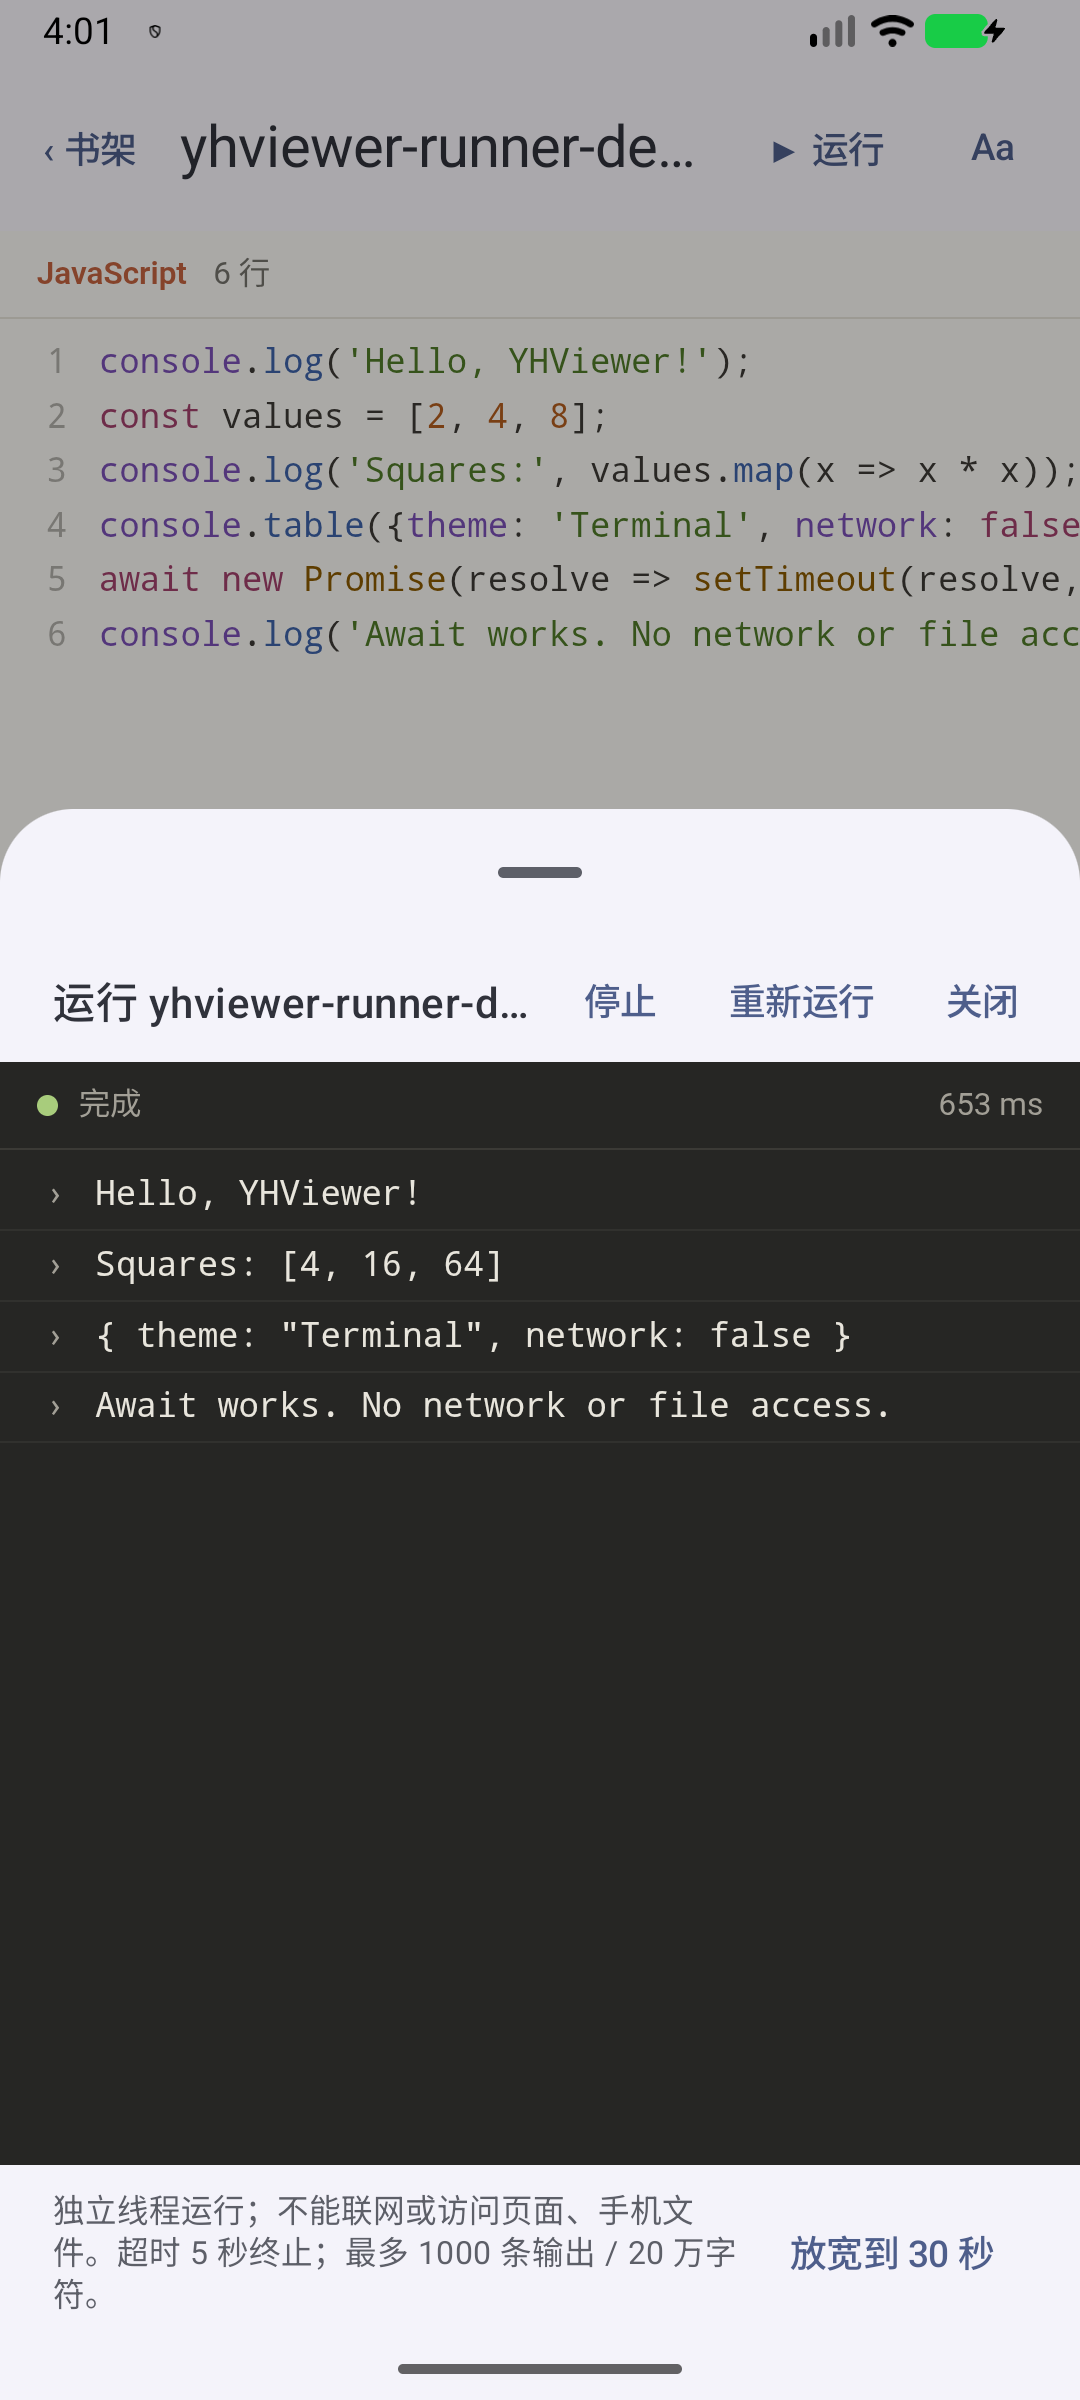
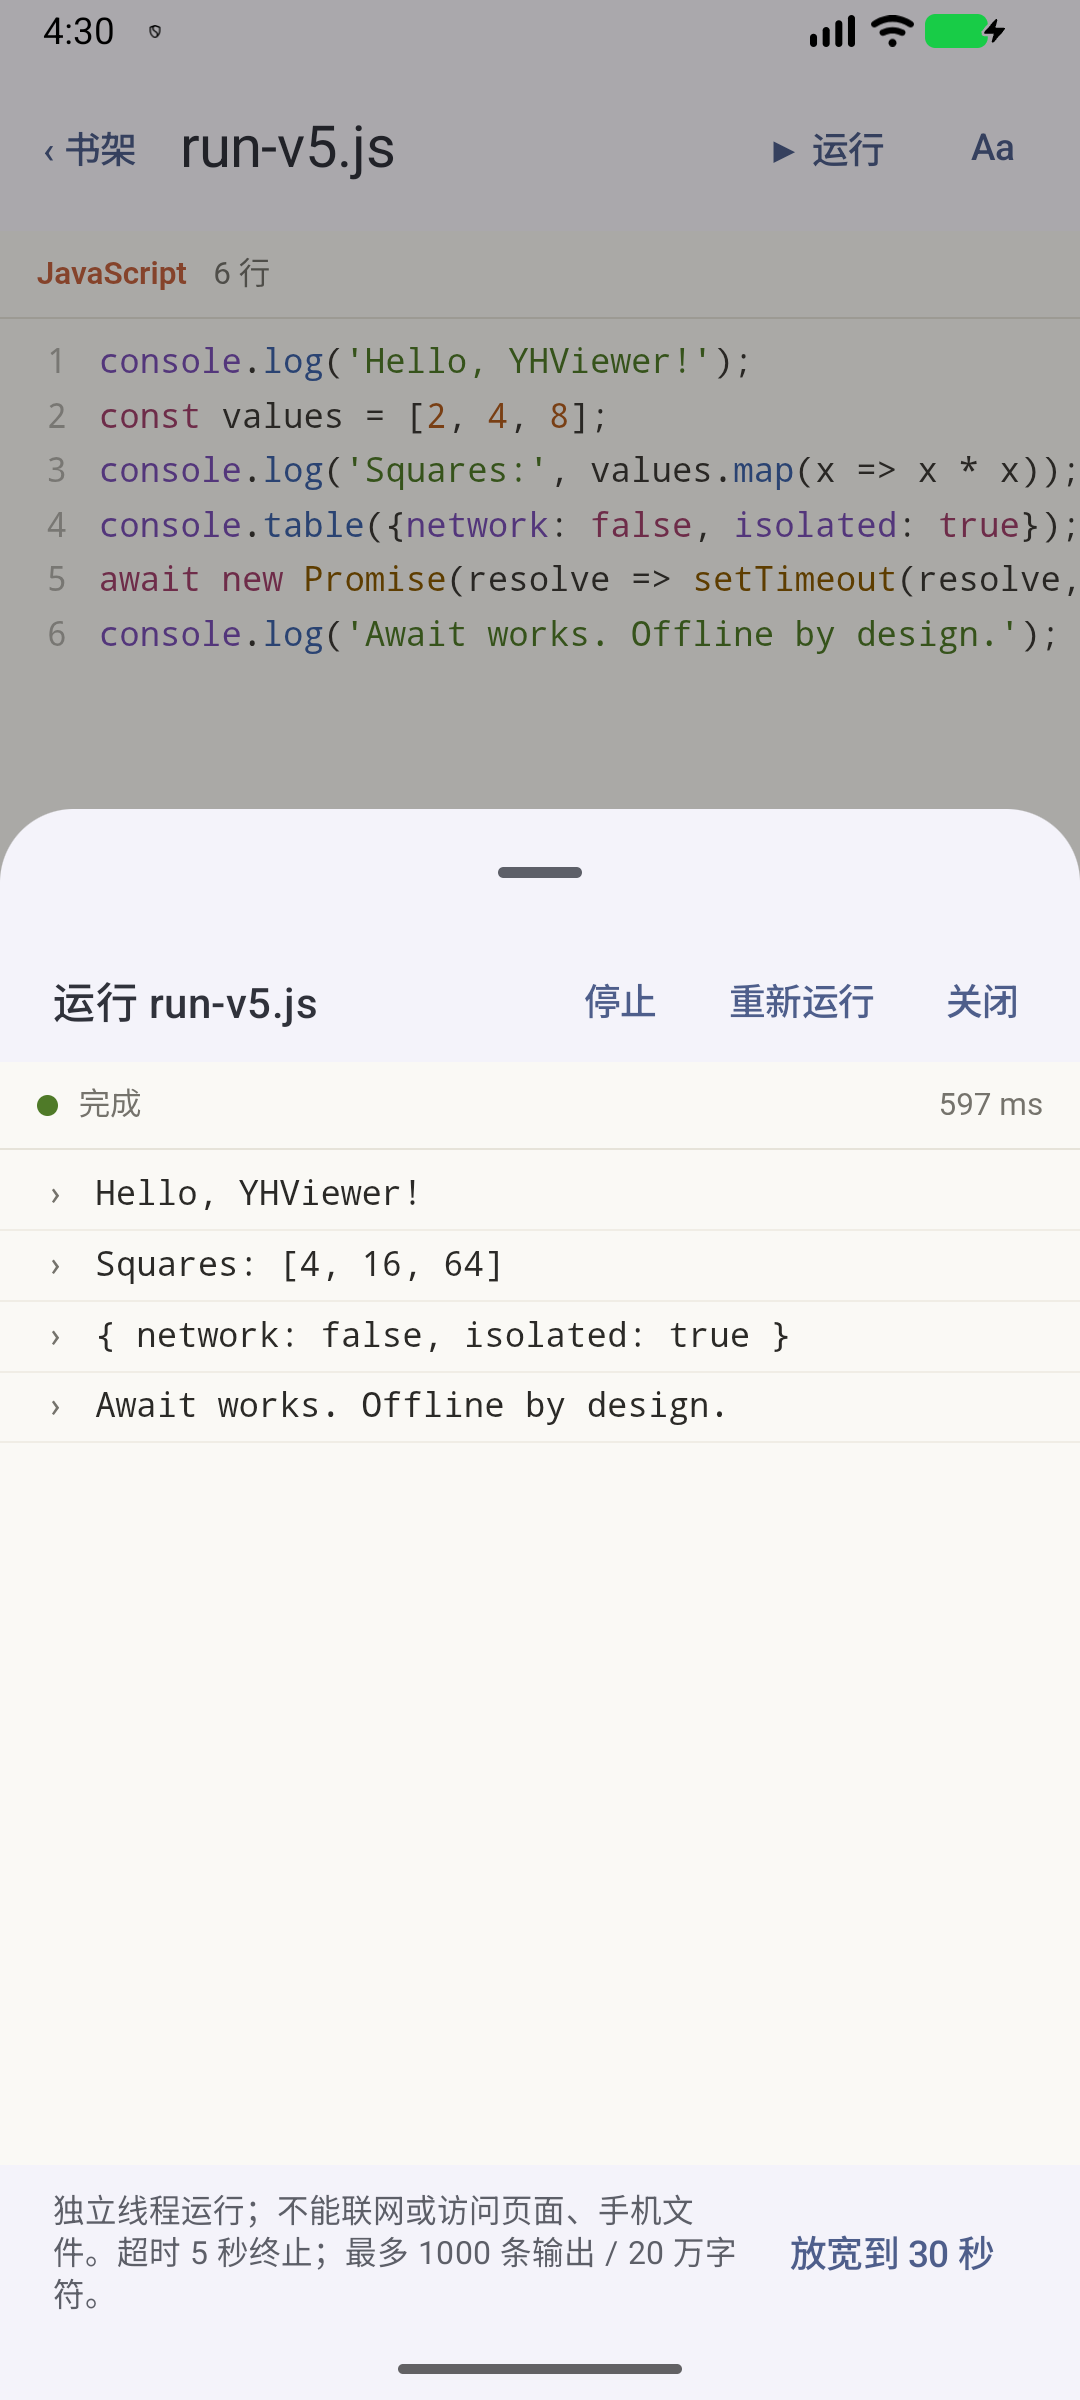
docs: record final runner device acceptance and update screenshot

diff --git a/docs/verification/JS_RUNNER.md b/docs/verification/JS_RUNNER.md
@@ -14,15 +14,15 @@ The v5 runner is separate from the document reader. All fixtures were generated 
 
 Both editions: **127 JVM tests**, zero failures/errors/skips; debug Lint, debug APK, optimized R8 release APK and instrumentation compilation passed. Final release APK inspection confirms Strict has no INTERNET permission and Standard has INTERNET.
 
-The dedicated API 37 emulator passed all 6 runner engine tests and all 3 runner UI tests. Checks cover awaited/delayed console output, circular objects/Map/Set, source escaping, syntax/runtime/rejection errors, Unicode, infinite-loop timeout, normal/forged/clear/character floods, real CSP denial of fetch/importScripts/WebSocket/XHR/file/content, fresh IndexedDB/CacheStorage, live themes, stop/restart/close, document replacement, chrome://crash and an allocation bomb without app-process death. The full API 37 suite passed **Strict 64/64** and **Standard 66/66**, with no failures or skipped tests. Both optimized R8 APKs, signed with the public development certificate only for this disposable emulator check, also rendered the native shelf and kept the app process alive.
+The dedicated API 37 emulator passed all 6 runner engine tests and all 4 runner UI tests. Checks cover awaited/delayed console output, circular objects/Map/Set, source escaping, syntax/runtime/rejection errors, Unicode, infinite-loop timeout, normal/forged/clear/character floods, real CSP denial of fetch/importScripts/WebSocket/XHR/file/content, fresh IndexedDB/CacheStorage, live themes, stop/restart/close, document replacement, chrome://crash and an allocation bomb without app-process death. The full API 37 suite passed **Strict 65/65** and **Standard 67/67**, with no failures or skipped tests. Both optimized R8 APKs, signed with the local development certificate only for this disposable emulator check, also rendered the native shelf and kept the app process alive.
 
 An independent broad source review found no P0/P1/P2 blocking issue. No formal v0.3.0 tag or release was created.
 
 ## Physical API 35 device
 
-On the connected Xiaomi/Redmi 23049RAD8C, WebView 153.0.8010.39, an independent **io.github.zer0rin.yhviewer.qa** debug application ran the 6 engine, 3 UI and 3 recovery checks: **Standard 12/12, Strict 12/12**, no failures/skips. The allocation-bomb assertion accepts controlled Worker failure/timeout or a recovered renderer crash; the separate chrome://crash assertion explicitly verifies the native crash message and rerun path. These results do not claim that every allocation attempt triggers an OS renderer kill.
+On the connected Xiaomi/Redmi 23049RAD8C, WebView 153.0.8010.39, an independent **io.github.zer0rin.yhviewer.qa** debug application ran the 6 engine, 4 UI and 3 recovery checks: **Standard 13/13, Strict 13/13**, no failures/skips. The allocation-bomb assertion accepts controlled Worker failure/timeout or a recovered renderer crash; the separate chrome://crash assertion explicitly verifies the native crash message and rerun path. These results do not claim that every allocation attempt triggers an OS renderer kill.
 
-The device initially rejected the test process’s activity launch (START_ABORTED / MIUIOP 10021). A temporary QA-only allow enabled instrumentation; the original ignore setting was restored afterward. Synthetic MediaStore documents were created under Download/YHViewerV5Tests and each created URI/book row was removed by test cleanup. No pre-existing phone document was read, changed or deleted. The installed production package remained **v0.2.0 / code 3**; its storage, permissions and signature were not changed. The independent QA app remains installed.
+The device initially rejected the test process’s activity launch (START_ABORTED / MIUIOP 10021). A temporary QA-only allow enabled instrumentation; the original ignore setting was restored afterward. Synthetic MediaStore documents were created under Download/YHViewerV5Tests and each created URI/book row was removed by test cleanup. No pre-existing phone document was read, changed or deleted. The installed production package remained **v0.2.0 / code 3**; its storage, permissions and signature were not changed. The independent Standard QA app remains installed; its instrumentation package was removed after testing.
 
 Physical checks used debug QA builds rather than the official release signing key. R8 startup checks above used only the disposable emulator.
 
@@ -33,3 +33,11 @@ The optimized Standard APK also opened a newly created JavaScript document via c
 ## API 34 CI follow-up
 
 The first [runner CI execution](https://github.com/Zer0Rin/yhviewer/actions/runs/38870211423) passed build/unit/Lint but failed only the allocation-bomb test in each edition (63/64 and 65/66 passed). Per-test Logcat confirms both shared WebViews received renderer-gone callbacks and the app survived. The test submitted evaluateJavascript just before renderer death, then failed waiting for a callback the dead renderer could not deliver. The check now polls terminal Worker state asynchronously while continuing to check the native crash message. It still requires a terminal outcome, unchanged app PID and usable Close action; no production recovery condition was relaxed.
+
+The [second API 34 execution](https://github.com/Zer0Rin/yhviewer/actions/runs/38871832290) passed both jobs at code revision `065912e`: Strict 64/64 and Standard 66/66, zero failures/errors/skips. The allocation bomb actually crashed the shared renderer on this engine; both WebViews recovered and the test recorded `renderer-crash; app PID unchanged`. API 35 and API 37 instead recorded controlled timeout for that allocation workload.
+
+## AUTO theme follow-up
+
+The native screenshot exposed a dialog-context discrepancy: a light Android configuration produced a dark `prefers-color-scheme` inside the bottom-sheet WebView. A new real-dialog test reproduced the wrong computed background before the fix. RunSheet now resolves AUTO from Compose’s Android configuration **before** entering the dialog, passing an explicit Paper/Ink theme to the page. The saved choice remains AUTO. The test checks actual backgrounds for light/dark configuration and Paper/Ink/Terminal/AUTO, retains the same WebView and a JavaScript marker referencing the completed result, and therefore detects accidental reexecution during theme changes. Both edition builds, JVM/Lint/R8 checks and physical API 35 13/13 checks passed after this fix.
+
+The [final API 34 execution](https://github.com/Zer0Rin/yhviewer/actions/runs/38873604547) passed both jobs at source revision `ae219e6`: **Strict 65/65, Standard 67/67**, zero failures/errors/skips in the downloaded JUnit reports. This includes the actual-color AUTO theme regression. In this run the allocation bomb timed out in Strict and crashed the renderer in Standard; both retained the app PID and a usable native Close action.
